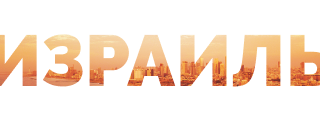
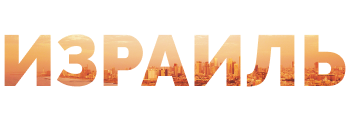
верстает шапку и главный экран во всех разрешениях, с исправлениями по код-ревью от наставника

Changed region(s): [[0.0, 0.2705, 0.5, 0.7131], [0.5312, 0.2705, 1.0, 0.7131], [0.3438, 0.2705, 0.375, 0.2951]]

diff --git a/source/sass/blocks/intro.scss b/source/sass/blocks/intro.scss
@@ -1,149 +1,11 @@
-//@media (min-width: 320px) {
-//  .intro {
-//    box-sizing: border-box;
-//    margin-top: -35px;
-//    background-image: url("../../img/background_top_mobile@1x.jpg");
-//    background-repeat: no-repeat;
-//    background-position: 50% 50%;
-//    background-size: cover;
-//    background-color: #c3886a;
-//    color: #ffffff;
-//    width: 100%;
-//    height: 587px;
-//
-//    @media (min-resolution: $retina-dpi), (min-resolution: $retina-dppx) {
-//      background-image: url("../../img/background_top_mobile@2x.jpg");
-//    }
-//  }
-//
-//  .intro__israel {
-//    position: relative;
-//    background-image: url("../../img/israel_mobile@1x.png");
-//    background-repeat: no-repeat;
-//    background-position: 50% 50%;
-//    background-size: cover;
-//    width: 100%;
-//    height: 122px;
-//    transform: translateY(136px);
-//
-//    @media (min-resolution: $retina-dpi), (min-resolution: $retina-dppx) {
-//      background-image: url("../../img/israel_mobile@2x.png");
-//    }
-//  }
-//
-//  .intro__girl {
-//    position: relative;
-//    margin-top: -121px;
-//    background-image: url("../../img/girl_mobile@1x.png");
-//    background-repeat: no-repeat;
-//    background-position: 50% 50%;
-//    background-size: contain;
-//    width: 100%;
-//    height: 603px;
-//    z-index: 10;
-//
-//    @media (min-resolution: $retina-dpi), (min-resolution: $retina-dppx) {
-//      background-image: url("../../img/girl_mobile@2x.png");
-//    }
-//  }
-//
-//  .intro h2 {
-//    position: relative;
-//    margin: 0 auto;
-//    margin-top: -301px;
-//    margin-bottom: 31px;
-//    padding: 0;
-//    font-family: "Fira Sans", "Arial", sans-serif;
-//    font-size: 20px;
-//    line-height: 24px;
-//    color: #ffffff;
-//    text-align: center;
-//    max-width: 350px;
-//    z-index: 100;
-//  }
-//
-//  .intro span {
-//    position: relative;
-//    margin: 0 auto;
-//    display: block;
-//    background-image: url("../../img/hint_scroll_down_mobile@1x.png");
-//    background-repeat: no-repeat;
-//    background-position: center center;
-//    background-size: cover;
-//    width: 76px;
-//    height: 132px;
-//    z-index: 100;
-//
-//    @media (min-resolution: $retina-dpi), (min-resolution: $retina-dppx) {
-//      background-image: url("../../img/hint_scroll_down_mobile@2x.png");
-//    }
-//  }
-//}
-//
-//@media (min-width: 768px) {
-//  .intro {
-//    margin-top: -67px;
-//    background-image: url("../../img/background_top_desktop@1x.jpg");
-//    height: 879px;
-//
-//    @media (min-resolution: $retina-dpi), (min-resolution: $retina-dppx) {
-//      background-image: url("../../img/background_top_desktop@2x.jpg");
-//    }
-//  }
-//
-//  .intro__israel {
-//    height: 220px;
-//  }
-//
-//  .intro__girl {
-//    margin-top: -107px;
-//    height: 750px;
-//    background-position: 52% 50%;
-//  }
-//}
-//
-//
-//@media (min-width: 1024px) {
-//  .intro__israel {
-//    background-image: url("../../img/israel_desktop@1x.png");
-//    background-size: contain;
-//    height: 340px;
-//    transform: translateY(160px);
-//
-//    @media (min-resolution: $retina-dpi), (min-resolution: $retina-dppx) {
-//      background-image: url("../../img/israel_desktop@2x.png");
-//    }
-//  }
-//
-//  .intro__girl {
-//    margin-top: -340px;
-//    background-image: url("../../img/girl_desktop@1x.png");
-//    background-size: cover;
-//    width: 100%;
-//    height: 906px;
-//
-//    @media (min-resolution: $retina-dpi), (min-resolution: $retina-dppx) {
-//      background-image: url("../../img/girl_desktop@2x.png");
-//    }
-//  }
-//
-//  .intro h2 {
-//    margin-top: -367px;
-//    margin-bottom: 31px;
-//    font-size: 24px;
-//    line-height: 29px;
-//    width: 350px;
-//  }
-//}
-
 .intro-header-wrapper {
-  background-image: url('../../img/background_top_desktop@1x.jpg');
+  background-image: url("../../img/background_top_desktop@1x.jpg");
   background-repeat: no-repeat;
   background-position: 50% 50%;
   background-size: cover;
   height: 879px;
-  background-color: #c3886a;
-  color: #ffffff;
+  background-color: #ffffff;
+  color: #000000;
 
   @media (min-resolution: $retina-dpi), (min-resolution: $retina-dppx) {
     background-image: url("../../img/background_top_desktop@2x.jpg");
@@ -151,16 +13,28 @@
 }
 
 .intro {
-  background: url("../../img/girl_desktop@1x.png") 50% -100px no-repeat,
-              url("../../img/israel_desktop@1x.png") 50% 60px no-repeat;
+  background: url("../../img/hint_scroll_down_desktop@1x.png") 50% 528px no-repeat,
+    url("../../img/girl_desktop@1x.png") 50% -100px no-repeat,
+    url("../../img/israel_desktop@1x.png") 50% 60px no-repeat;
   height: 811px;
 
   @media (min-resolution: $retina-dpi), (min-resolution: $retina-dppx) {
-    background: url("../../img/girl_desktop@2x.png") 50% -100px no-repeat,
-                url("../../img/israel_desktop@2x.png") 50% 60px no-repeat;
-    background-size: 1366px 906px,
-                     1018px 340px;
+    background: url("../../img/hint_scroll_down_desktop@1x.png") 50% 528px no-repeat,
+      url("../../img/girl_desktop@2x.png") 50% -100px no-repeat,
+      url("../../img/israel_desktop@2x.png") 50% 60px no-repeat;
+    background-size: 77px 132px,
+      1366px 906px,
+      1018px 340px;
   }
+}
+
+.intro__reserve-pic {
+  display: none;
+  margin: 0 auto;
+  width: 998px;
+  height: 147px;
+  transform: translateY(-36px);
+  //TODO: непонятно как сверстать в мобильном разрешении, картинка нужна другая, а использование тега picture не допускается
 }
 
 .intro h2 {
@@ -177,19 +51,39 @@
   text-shadow: 0 1px 4px rgba(0, 0, 0, 0.12);
 }
 
-.intro span {
-  position: relative;
-  margin: 0 auto;
-  display: block;
-  background-image: url("../../img/hint_scroll_down_mobile@1x.png");
-  background-repeat: no-repeat;
-  background-position: center center;
-  background-size: cover;
-  width: 76px;
-  height: 132px;
-  transform: translateY(470px);
+@media (max-width: $mob-width) {
+  .intro-header-wrapper {
+    background-image: url("../../img/background_top_mobile@1x.png");
+    background-repeat: no-repeat;
+    background-position: 50% 32px;
+    background-size: cover;
+    height: 587px;
 
-  @media (min-resolution: $retina-dpi), (min-resolution: $retina-dppx) {
-    background-image: url("../../img/hint_scroll_down_mobile@2x.png");
+    @media (min-resolution: $retina-dpi), (min-resolution: $retina-dppx) {
+      background-image: url("../../img/background_top_mobile@2x.png");
+    }
+  }
+
+  .intro {
+    background: url("../../img/hint_scroll_down_mobile@1x.png") 50% 319px no-repeat,
+      url("../../img/girl_mobile@1x.png") 50% -64px no-repeat,
+      url("../../img/israel_mobile@1x.png") 50% 72px no-repeat;
+    height: 434px;
+
+    @media (min-resolution: $retina-dpi), (min-resolution: $retina-dppx) {
+      background: url("../../img/girl_mobile@2x.png") 50% -63px no-repeat,
+      url("../../img/israel_mobile@2x.png") 50% 72px no-repeat;
+      background-size: 320px 602px,
+      320px 122px;
+    }
+  }
+
+  .intro h2 {
+    margin: 0 auto;
+    padding: 0;
+    font-size: 20px;
+    line-height: 24px;
+    transform: translateY(239px);
+    text-shadow: 0 1px 4px rgba(0, 0, 0, 0.12);
   }
 }

diff --git a/source/index.html b/source/index.html
@@ -23,7 +23,8 @@
     <div class="intro">
       <h1 class="visually-hidden">Программа обучения еврейской молодежи в Израиле Masa</h1>
       <h2>Учёба, путешествие и карьера для еврейской молодёжи</h2>
-      <span></span>
+        <source media="(max-width: 767px)" srcset="./img/israel_reserve_mobile@1x.png 1x, ./img/israel_reserve_mobile@2x.png 2x">
+        <img class="intro__reserve-pic" src="./img/israel_reserve_desktop@1x.png" srcset="./img/israel_reserve_desktop@2x.png 2x" alt="Надпись Израиль" width="998" height="147">
     </div>
   </div>
   <main>
